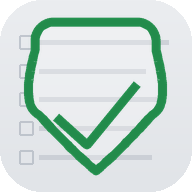
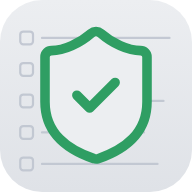
design: PWA ikon v14 — standart kalkan-tik çizimi + gri checklist arka plan
İkon önbelleği için sw cache v3 ve manifest/ikon ?v=3 sürümlemesi.

Claude-Session: https://claude.ai/code/session_01NkTog8rVLgMs9aAdCfFXS1

diff --git a/index.html b/index.html
@@ -118,8 +118,8 @@
 <meta name="apple-mobile-web-app-capable" content="yes">
 <meta name="apple-mobile-web-app-status-bar-style" content="black-translucent">
 <meta name="apple-mobile-web-app-title" content="İSG Takip">
-<link rel="apple-touch-icon" href="icon-192.png">
-<link rel="icon" type="image/png" sizes="192x192" href="icon-192.png">
+<link rel="apple-touch-icon" href="icon-192.png?v=3">
+<link rel="icon" type="image/png" sizes="192x192" href="icon-192.png?v=3">
 <script>
 // ── DOKUNMATİK DÜZEN SINIRI ─────────────────────────────────
 // Bu genişliğin altında telefon/tablet-dikey düzeni (tek sütun + alt sekmeler),

diff --git a/sw.js b/sw.js
@@ -3,7 +3,7 @@
    Bu dosya yalnızca PWA kurulum desteği için gereklidir.
    Offline çalışma: index.html önbellekte saklanır.
 */
-const CACHE_NAME = 'isg-takip-v2';
+const CACHE_NAME = 'isg-takip-v3';
 const STATIC = ['./index.html', './manifest.json', './icon-192.png', './icon-512.png'];
 
 /* Kurulum: statik dosyaları önbellekle */
